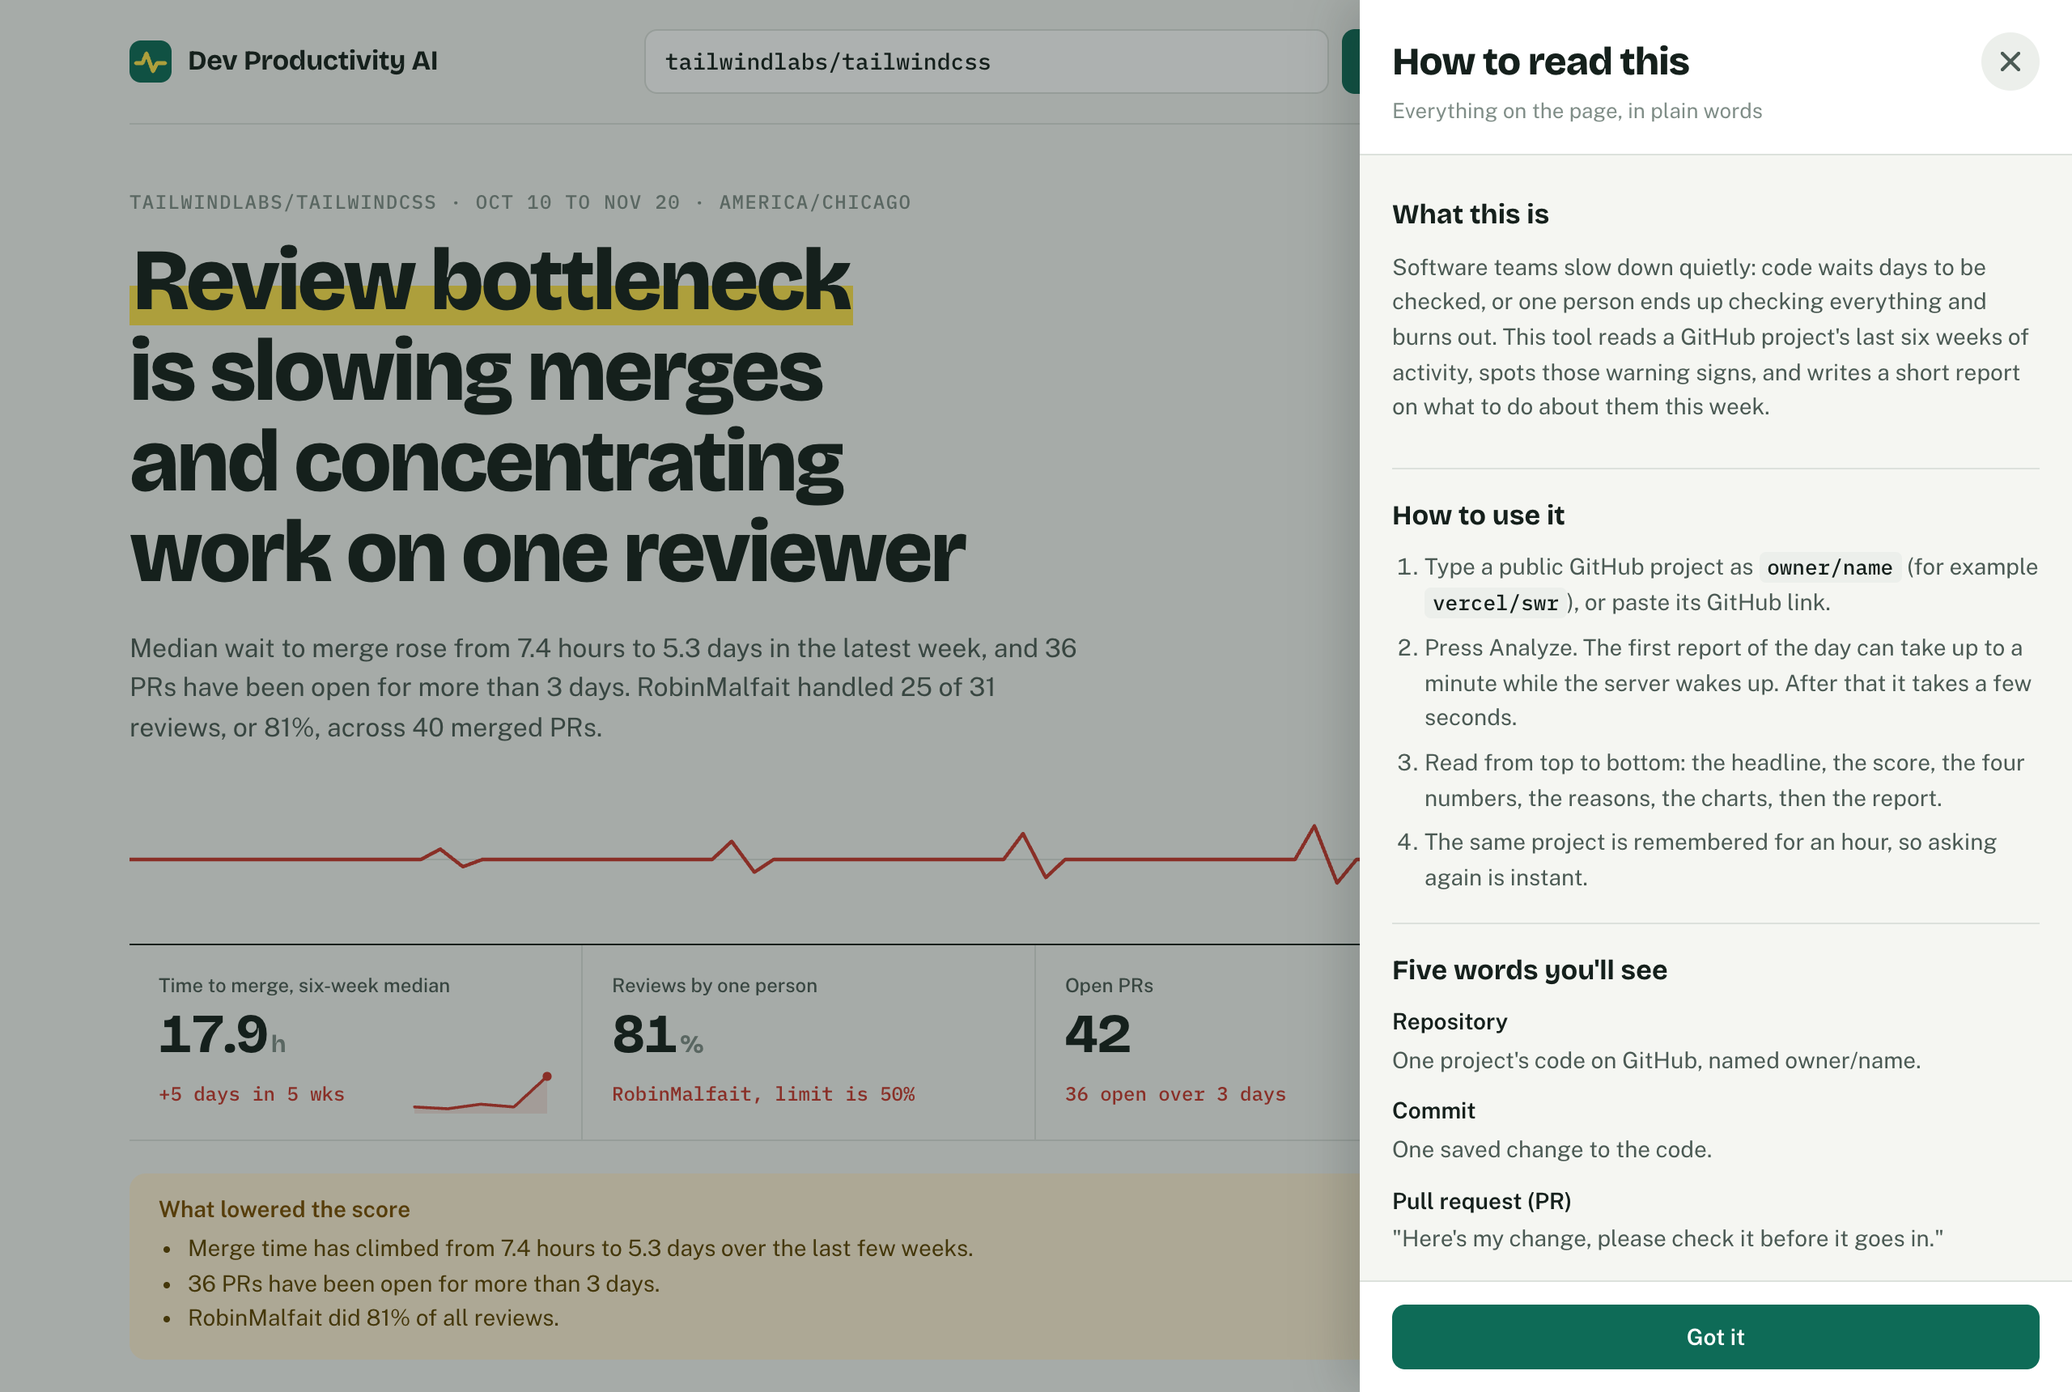
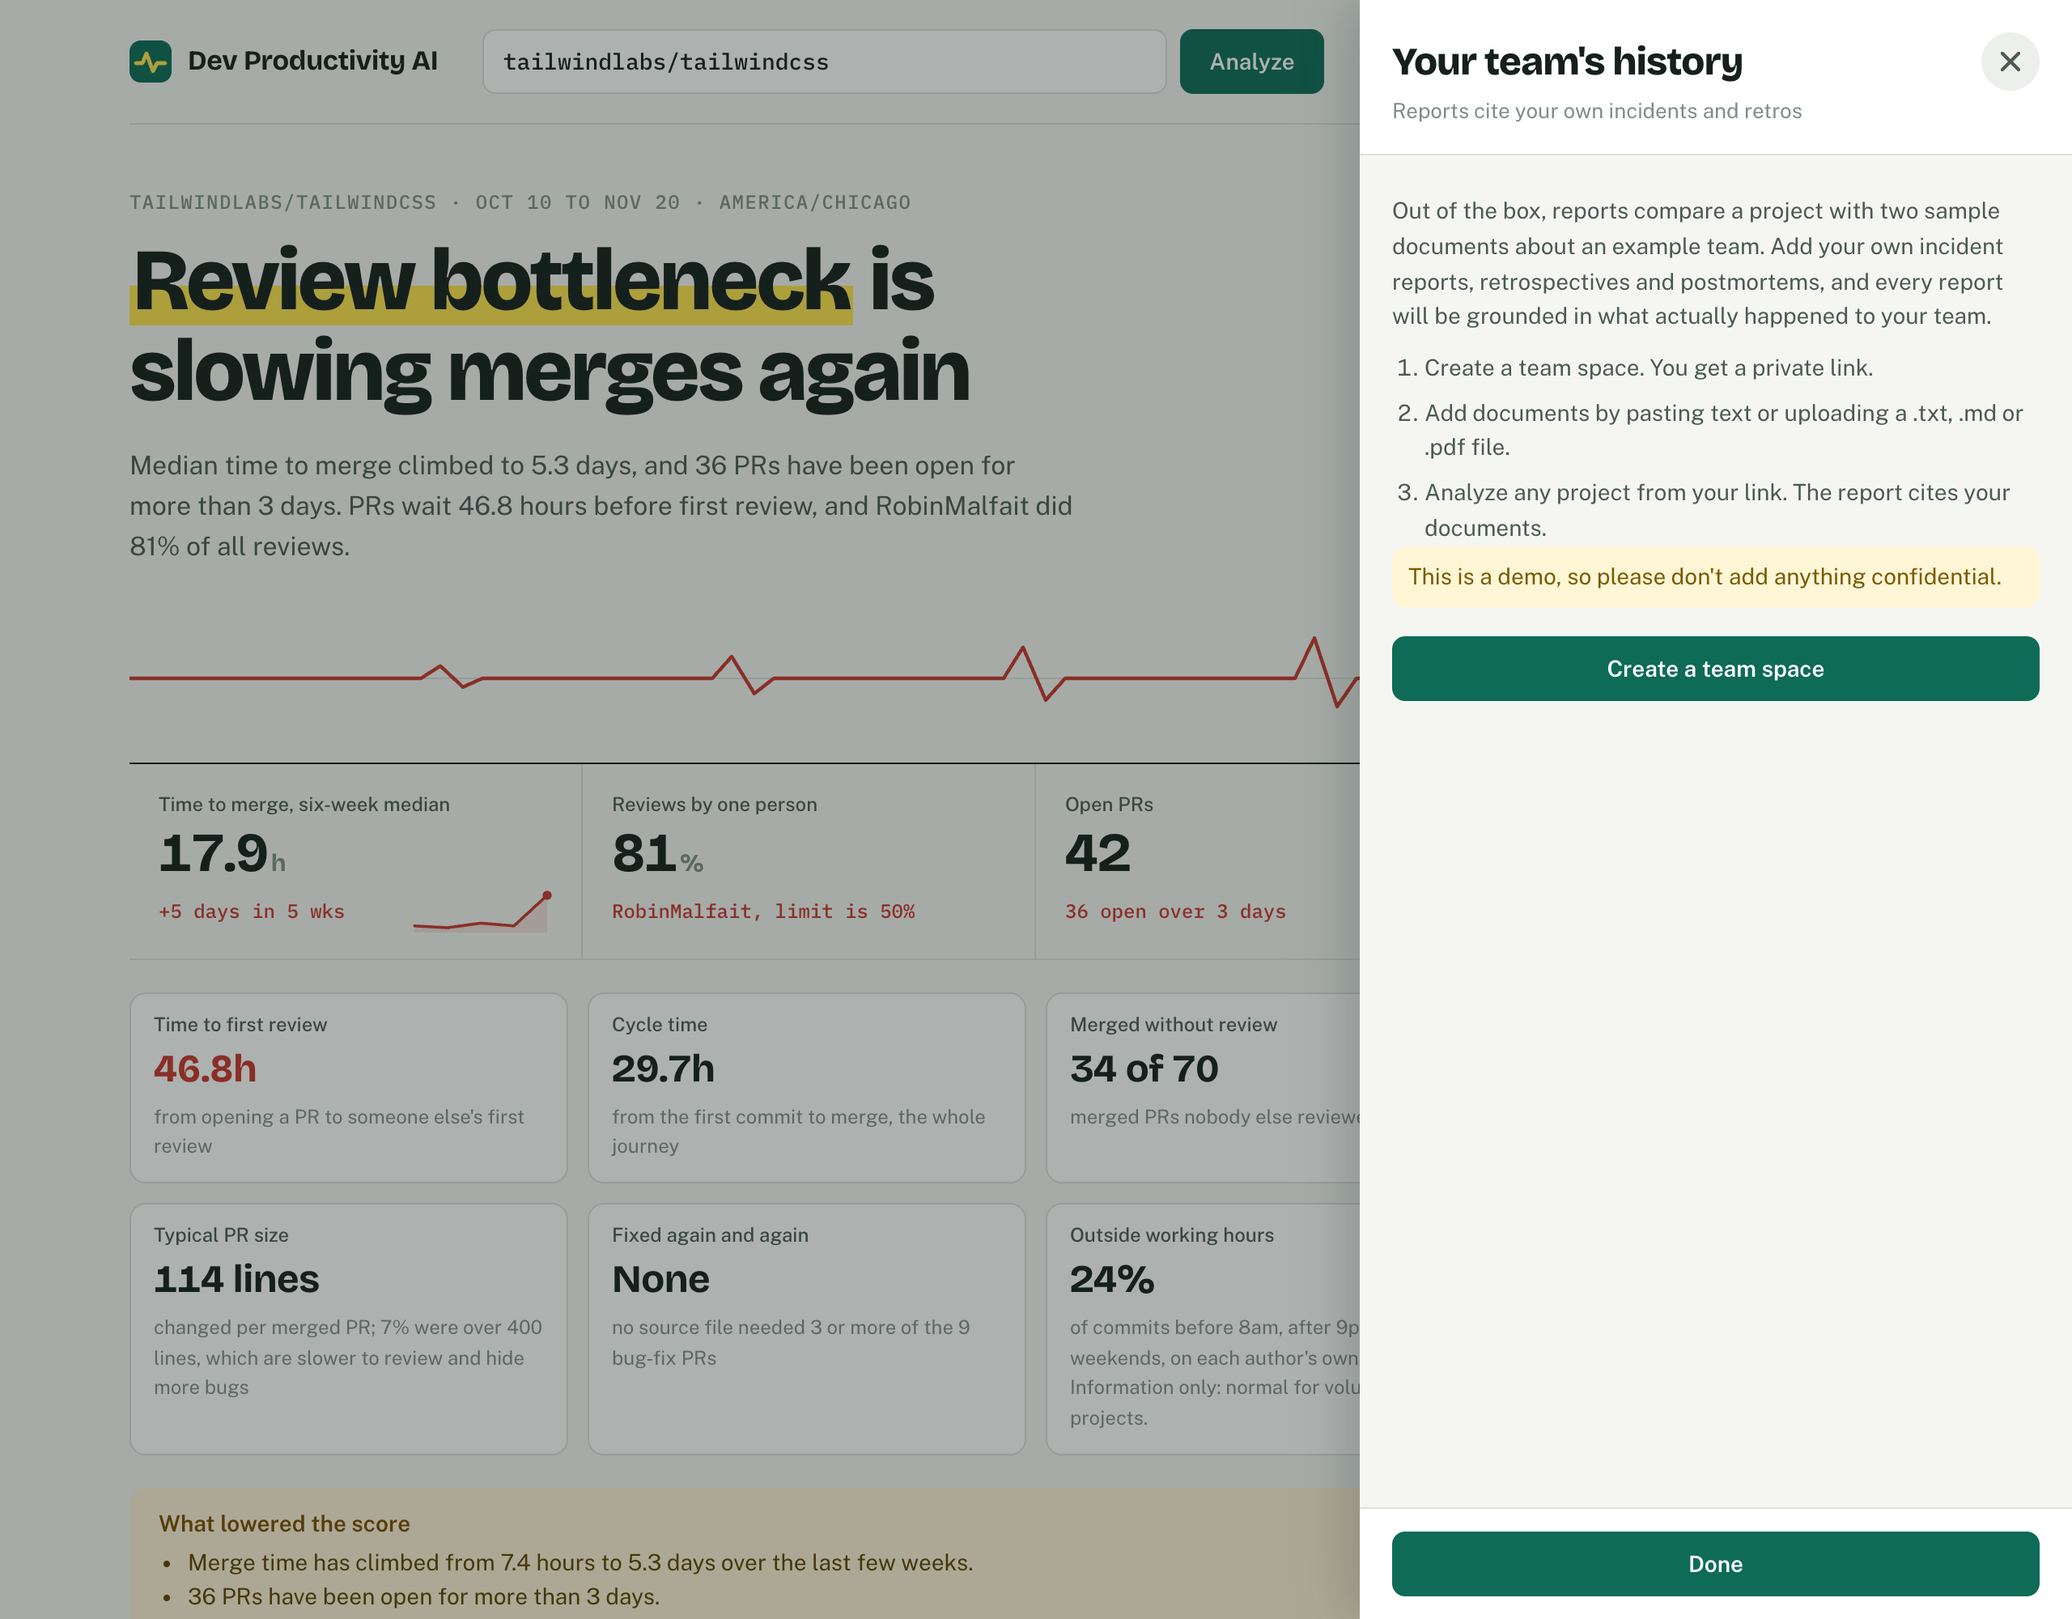
Add a demo GIF, a changelog, fresh screenshots and an updated README
- docs/demo.gif: a 20-second walkthrough recorded in a real browser (typing a
  repo, the score and warning signs, the charts, the cited report, the guide),
  4.8 MB
- Fresh screenshots showing the newer signals; unused ones removed
- README: a 'what you get' list, the updated tailwindcss example (score 40,
  46.8 hours to a first review), GraphQL in the stack, every check and
  scheduled job listed, setup for the optional Supabase, email and tracing
  features, and honest notes on report time and email deliverability
- CHANGELOG.md tells the story of the rebuild in plain language

diff --git a/README.md b/README.md
@@ -6,17 +6,28 @@ Dev Productivity AI reads a GitHub repository's last six weeks, finds those warn
 
 **Try it:** [dev-productivity-ai.vercel.app](https://dev-productivity-ai.vercel.app). Enter any public repository, for example `tailwindlabs/tailwindcss`.
 
-![Dashboard for tailwindlabs/tailwindcss: score 50, at risk, with merge time rising to 5.3 days and one reviewer doing 81% of reviews](docs/screenshots/dashboard-top.png)
+![A 20-second walkthrough: typing tailwindlabs/tailwindcss, the health score and warning signs appearing, the charts, the cited weekly report, and the How to read this guide](docs/demo.gif)
+
+**What you get**
+
+- A **health score** out of 100, with a plain reason for every point lost
+- **Eleven signals** from six weeks of GitHub activity: time to merge, time to first review, cycle time, review load, unreviewed merges, PRs waiting for a first look, stuck PRs, PR size, files that keep needing fixes, commit concentration and after-hours work
+- A **weekly report** written by AI, where every claim links to its source and every number is checked against the data
+- **Your team's own history**: add incident reports and retros, and reports cite them instead of samples
+- **Trends over time** for tracked projects, with comparisons to last month
+- **A Monday email** for your team's project, with one-click unsubscribe
 
 ---
 
 ## What it found in a real project
 
-Analysis of `tailwindlabs/tailwindcss`, six weeks ending November 20, 2026:
+Analysis of `tailwindlabs/tailwindcss`, six weeks ending November 20, 2026 (health score 40, at risk):
 
 - The typical wait to merge a pull request rose from **7.4 hours to 5.3 days** in the latest week.
-- **36 pull requests** had been open for more than three days.
-- **One maintainer did 25 of the last 31 reviews (81%).**
+- A new PR waited **46.8 hours** before anyone else reviewed it, and **34 open PRs** were still waiting for a first look.
+- **One maintainer did 81% of all reviews.**
+
+![Dashboard for tailwindlabs/tailwindcss: score 40, at risk, with merge time rising to 5.3 days, 46.8 hours to a first review and one reviewer doing 81% of reviews](docs/screenshots/dashboard-top.png)
 
 That combination, slow merges plus one overloaded reviewer, is the pattern the tool exists to catch. The report recommended spreading reviews across more people and setting a 24-hour review target, and cited the past incident each step came from:
 
@@ -94,9 +105,11 @@ A "How to read this" panel in the app explains every number, chart and label in 
 
 ## Quality checks
 
-Every push runs two checks in GitHub Actions:
+Every push runs these checks in GitHub Actions:
 
 - **Scoring tests** (`tests/test_metrics.py`) check the health score math on hand-built data with no API calls: solo projects, overloaded reviewers, duplicate reviews, quiet repositories and repositories without pull requests.
+- **History and email tests** (`tests/test_history.py`, `tests/test_emails.py`) check month-over-month comparisons, that emails escape everything from GitHub or the AI, and that every report email carries its unsubscribe link.
+- **Frontend tests** (`frontend`, with Vitest) check the page loads and that repository names and GitHub links are understood.
 - **Upload tests** (`tests/test_team_docs.py`) check that team links are long and random, and that wrong file types, oversized files and broken PDFs get clear messages.
 - **Number detector tests** (`tests/test_citation_check.py`) confirm the number check passes real figures and catches invented ones (a made-up "57%") and miscalculated ones ("6.1 days").
 - **Report evaluation** (`tests/test_evaluation.py`) generates reports for a golden dataset of six team scenarios (an overloaded reviewer, a healthy team, a PR backlog, a solo maintainer, a nearly inactive repo and a project with pull requests switched off) and checks that each has a headline and the required finding types, raises no risks for a healthy team, cites only sources that exist, uses only numbers found in its inputs, and mentions the key topic. A second model then acts as a judge, reading each finding next to the sources it cites and deciding whether they support it. The build fails if fewer than 80% of reports pass or fewer than 90% of cited findings are supported.
@@ -113,12 +126,13 @@ Before going live, the pipeline was also tested against twelve real projects, in
 |---|---|
 | Frontend | React and TypeScript built with Vite, hand-drawn SVG charts, tested with Vitest, hosted on Vercel |
 | Backend | Python 3.12, FastAPI, hosted on Render |
-| Data | GitHub REST API |
+| Data | GitHub GraphQL API |
 | Retrieval | Pinecone serverless index, OpenAI `text-embedding-ada-002` embeddings through LangChain, LangChain text splitting |
 | Generation | OpenAI `gpt-5.4-mini` with JSON output |
 | History | Supabase Postgres, written by a nightly GitHub Actions job |
 | Observability | Langfuse traces for each report (retrieval, embedding and generation steps) |
-| CI | GitHub Actions: scoring tests, report evaluation, and the keep-awake job |
+| Email | Gmail with an app password; confirmation and weekly report emails with List-Unsubscribe headers |
+| Automation | GitHub Actions: quality checks on every push, nightly snapshots, Monday emails, and a keep-awake check every 10 minutes |
 
 ---
 
@@ -131,6 +145,8 @@ These are honest gaps, and the next things on the roadmap.
 - **History starts when tracking starts.** Trends build up one point per night from the day a project is tracked; past months aren't reconstructed. The demo tracks at most 50 projects.
 - **Sampling on busy repositories.** At most 300 PRs and 300 commits are read; when a project has more, the dashboard shows the totals as "300+". Reviews are counted on every PR merged in the six weeks.
 - **Public repositories only.** Private repositories would need a GitHub App with read-only, per-repository access, plus login and per-company data separation.
+- **Report time on busy projects.** A fresh report takes a few seconds for small projects and 10 to 30 seconds for very busy ones on the free Render server; repeats within an hour are instant.
+- **Email deliverability.** Emails go through a personal Gmail account, so some land in spam. A sending service on its own domain would fix that.
 
 ## Roadmap
 
@@ -143,8 +159,13 @@ These are honest gaps, and the next things on the roadmap.
 - [x] Langfuse tracing for latency, tokens and cost per report
 - [x] A second model that checks each cited source actually supports the claim (in CI), plus a number check on every live report
 - [x] A weekly email report, subscribed from a team space and confirmed by email
+- [ ] Sign in with GitHub, then private repositories through a GitHub App
 
 ---
+
+## What changed
+
+The [changelog](CHANGELOG.md) tells the story of the November 2026 rebuild in plain language: what was broken, what was fixed, and why each feature works the way it does.
 
 ## Run it yourself
 
@@ -167,6 +188,12 @@ npm install
 VITE_API_URL=http://localhost:8000 npm run dev    # opens on http://localhost:3001
 ```
 
+Optional extras, each switched off until its keys are set in `.env`:
+
+- **Trends and weekly emails:** create a free Supabase project, run `supabase/schema.sql` in its SQL editor, and set `SUPABASE_URL` and `SUPABASE_SERVICE_KEY`. Emails also need `GMAIL_ADDRESS` and a Gmail `GMAIL_APP_PASSWORD`.
+- **Tracing:** set the Langfuse keys and `LANGFUSE_BASE_URL`.
+- **Scheduled jobs:** the nightly snapshots and Monday emails run in GitHub Actions and read the same values from the repository's Actions secrets.
+
 To analyze a repository from the terminal instead: `.venv/bin/python main.py owner/name`
 
 Run the checks with `.venv/bin/python tests/test_metrics.py` (no keys needed), `cd frontend && npm test` and `.venv/bin/python tests/test_evaluation.py`.
@@ -175,7 +202,7 @@ Run the checks with `.venv/bin/python tests/test_metrics.py` (no keys needed), `
 
 ```
 dev-productivity-ai/
-├── api.py                    # FastAPI app: /analyze, /review, /health, caching and limits
+├── api.py                    # FastAPI app: analysis, teams, tracking, history, subscriptions, feedback; caching and limits
 ├── main.py                   # Same analysis from the command line
 ├── src/
 │   ├── github_client.py      # Fetches six weeks of PRs, commits and reviews
@@ -191,12 +218,12 @@ dev-productivity-ai/
 │   ├── mailer.py             # Sends email and lays out the report and confirmation emails
 │   ├── weekly_reports.py     # The Monday job that writes and sends weekly reports
 │   └── observability.py      # Langfuse tracing (off when keys are missing)
-├── supabase/schema.sql       # Tables for tracked projects and daily snapshots
+├── supabase/schema.sql       # Tables for tracked projects, daily snapshots and subscriptions
 ├── documents/                # Sample incident report and retrospective
-├── tests/                    # Scoring tests, golden dataset and report evaluation
-├── frontend/                 # React and TypeScript dashboard
-├── docs/screenshots/
-└── .github/workflows/        # Quality checks and the keep-awake job
+├── tests/                    # Offline tests, golden dataset and report evaluation
+├── frontend/                 # React and TypeScript dashboard (Vite)
+├── docs/                     # Demo GIF and screenshots
+└── .github/workflows/        # Quality checks, nightly snapshots, Monday emails, keep-awake
 ```
 
 ---

diff --git a/CHANGELOG.md b/CHANGELOG.md
@@ -1,0 +1,56 @@
+# Changelog
+
+What changed in Dev Productivity AI, newest first, in plain language. The commit history has the full details of each change.
+
+## November 2026: rebuilt from a demo into a working product
+
+In November the live site had stopped working, and a full review of the code found the causes. This section is the rebuild, grouped by theme.
+
+### Fixed what was broken
+- **The AI model had been retired.** `gpt-3.5-turbo` no longer existed, so every report failed. Reports now use `gpt-5.4-mini`, chosen after a side-by-side test against two other models (it was fastest at 2.2s, against 5.8s for `gpt-4o-mini`, and wrote the most specific headlines). The model can be changed with a setting, without touching code.
+- **The GitHub token had expired**, and the old code quietly turned the rejection into a perfect 100/100 score. Errors are now caught and explained.
+- **Library versions weren't pinned**, so any new release could break the site on its next deploy. Every library is now locked to a tested version.
+
+### Privacy and security
+- **Feedback emails were public.** Anyone could read every visitor's name and email at `/reviews`, and the file was committed to GitHub. The page was removed and the file erased from the whole Git history.
+- The AI report is no longer inserted into the page as raw HTML, which could have run code from a malicious repository.
+- Weekly emails can only be set up from a team space, and every address must be confirmed first, so nobody can be signed up by someone else or follow a stranger's team.
+- Uploaded team documents are treated as reference only. A document saying "ignore your rules" was tested and ignored.
+
+### Real signals instead of three rules
+- Six weeks of pull requests, reviews and commits, fetched with GitHub GraphQL in 1 to 3 requests instead of up to 45 (a busy repo went from 9.3s to 4.4s with identical results).
+- Eleven signals: time to merge, time to first review, cycle time, review load, unreviewed merges, PRs waiting for a first look, stuck PRs, PR size, files that keep needing fixes, commit concentration and after-hours work on each author's own clock.
+- A score that explains itself: every point lost comes with a sentence saying why. Solo projects aren't penalized for being solo, nearly empty projects say "too little activity", and projects without pull requests, like the Linux kernel, are judged on commits.
+- Weeks and dates follow the visitor's own time zone, after testing showed a PR merged on a US evening landing in the wrong week in UTC.
+
+### Reports you can trust
+- Reports are structured findings (risks, actions, what's going well), each citing numbered sources with a match score.
+- Every number in a live report is checked against the data it came from, and visitors are told when everything matched.
+- A second AI judges, on every push, whether each cited source really supports its claim. It caught real overstatements, which were fixed in the instructions rather than by lowering the bar: risks raised for a healthy team, an old incident cited for today's numbers, and a forced "going well" note claiming PRs were on track while three were stuck.
+- Langfuse records every report's steps, time, tokens and cost (about $0.0025 a report). Visitor ratings are stored on the report they're about.
+
+### Your team's own history
+- Team spaces: a private link where a team adds its incident reports and retros (pasted, .txt, .md or .pdf). Reports from that link cite the team's documents, labelled "Your team's document". Each team's documents live in their own Pinecone namespace.
+
+### Trends and weekly emails
+- Track a project and its numbers are saved every night in Supabase, by a free scheduled job that uses no AI. The dashboard shows the score day by day and how it compares with a month earlier.
+- From a team space, subscribe to a Monday email with the project's report. One click unsubscribes and deletes the address, either from the email or with Gmail's own Unsubscribe button.
+
+### Design and ease of use
+- A new light design, the "team vitals chart": a plain-language headline, the score, a heartbeat line, vital signs with trend lines, charts that can't be misread, and the cited report.
+- A "How to read this" panel that explains every number, chart, rule and limit in plain words.
+- Clear messages instead of raw errors, a "waking up the server" note, and a layout that works on phones.
+- The frontend moved from Create React App, which is no longer maintained, to Vite. Builds take about 2 seconds.
+
+### Running it reliably and cheaply
+- A one-hour cache, a per-visitor hourly limit and a daily cap of new reports keep AI costs predictable, on top of prepaid credits.
+- A health check every 10 minutes keeps the free server awake, and the nightly job keeps the free database from pausing.
+- Tests on every push: scoring math, the number checker, uploads, history, emails, the frontend, and an AI-judged evaluation of six team scenarios.
+- Tested against twelve real projects before going live, which found and fixed two bugs.
+
+## March 2026: first version
+
+- Phase 1: GitHub data, three health score rules, and a report from `gpt-3.5-turbo`.
+- Phase 2: RAG over two sample documents in Pinecone.
+- Phase 3: Langfuse setup and a CI evaluation that checked reports for keywords.
+- A dark-themed React dashboard with a feedback form, deployed on Vercel and Render.
